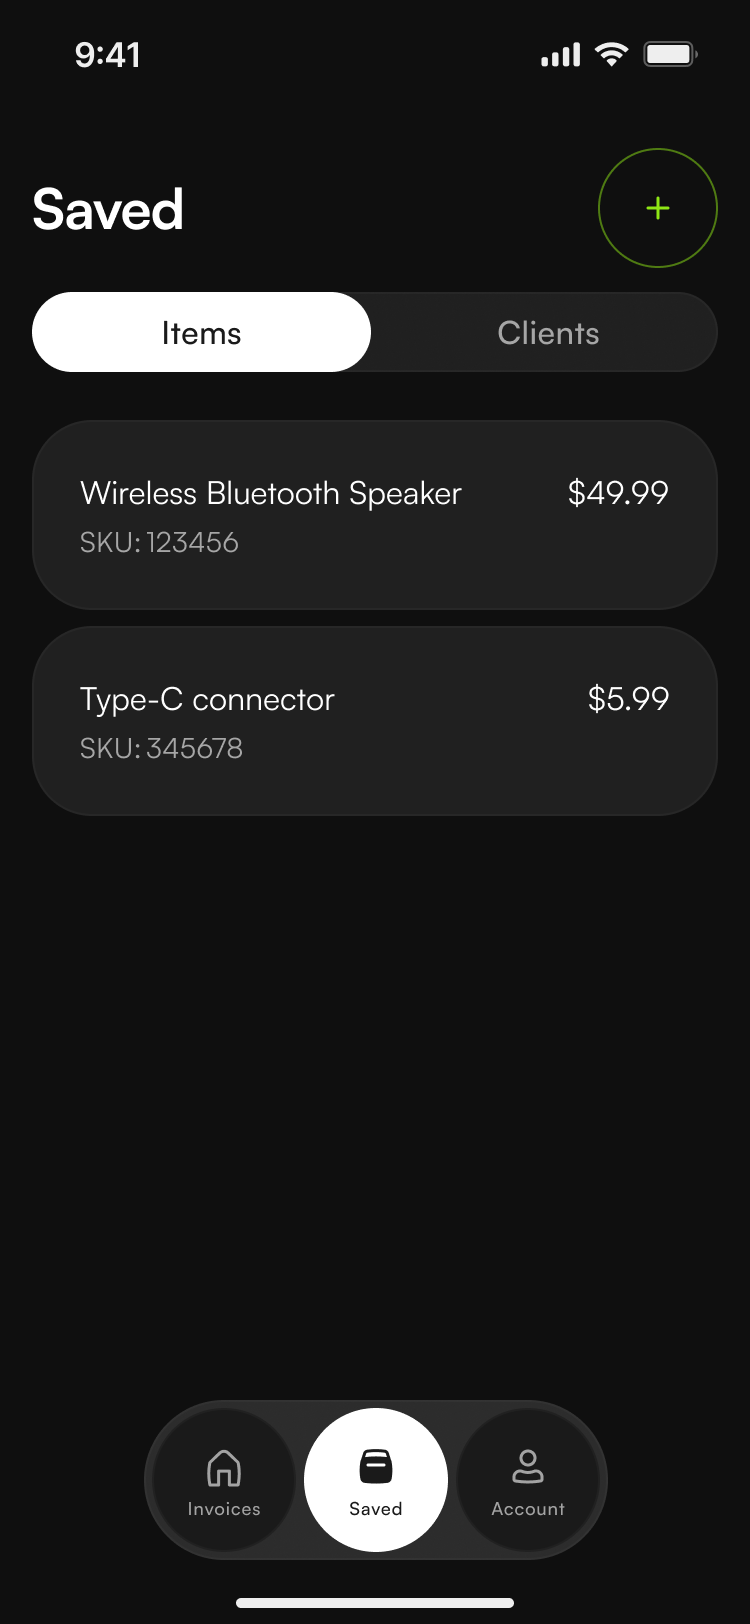
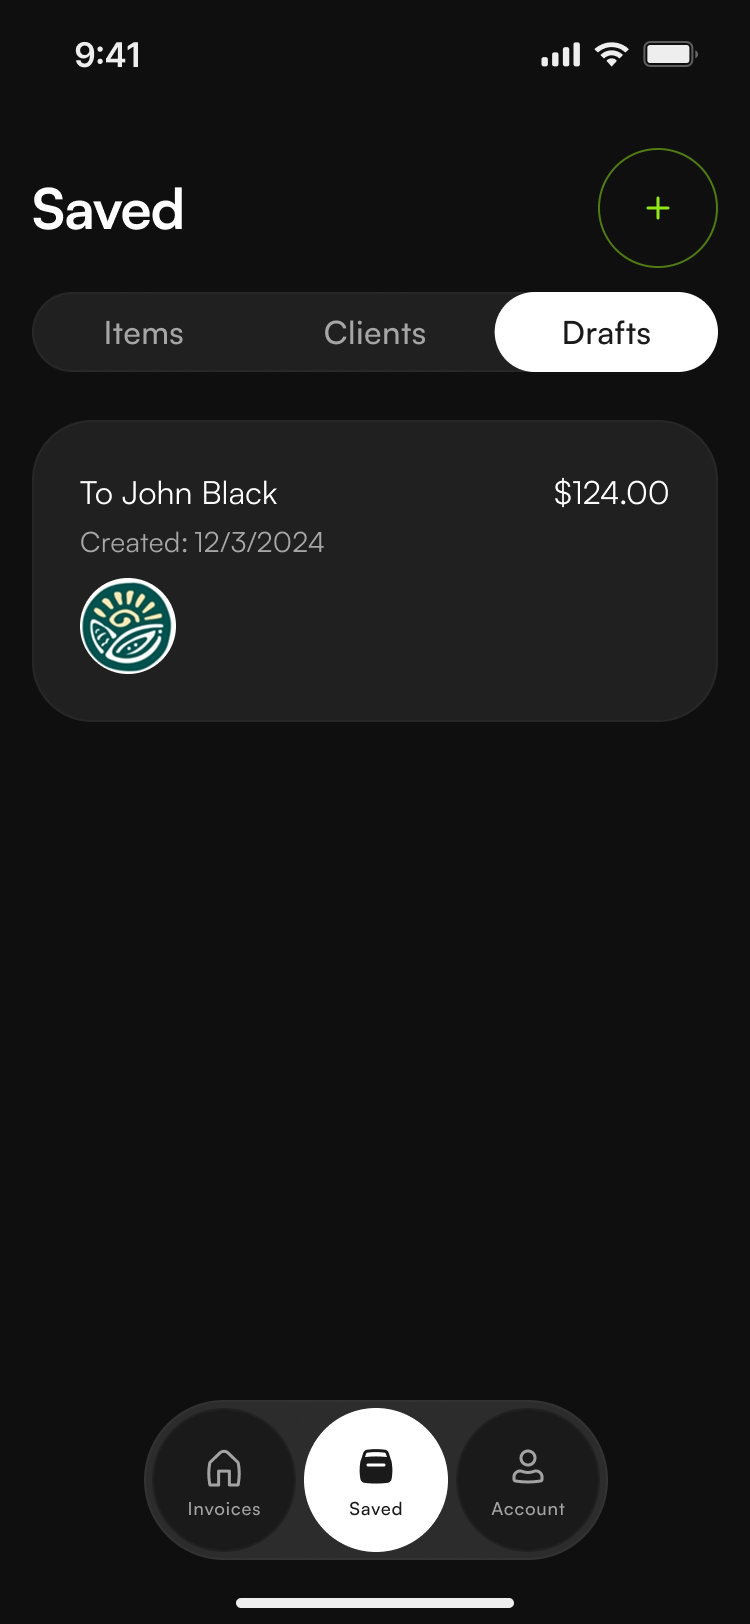
Rework the Invoicer Solution and add the IA diagram
- Solution: Kateryna's "five areas" text, and a row of four screens (invoice details, the
  document preview moved from Decision 1, account details, plan). The two-paths diagram
  (IMG 08) and the states placeholder are dropped.
- Decision 3: the IA diagram (07-ia.png) first, nine columns wide via a new .cs-figure--9,
  with the tab screens under it; the Saved screen now shows Items, Clients and Drafts.
- Plan and Saved screens re-exported with their copy fixed; no captions under screens or
  the IA diagram.
- README and DESIGN-SYSTEM.md updated.

diff --git a/invoicer.html b/invoicer.html
@@ -191,7 +191,7 @@
           <p><em>Trade-off:</em> extra screen transitions in return for one decision at a time on a small screen.</p>
         </div>
 
-        <!-- Decision 1 screens: the three steps and the Preview they lead to. Every screen row
+        <!-- Decision 1 screens: the three steps. Every screen row
              on this page is .cs-devices--quarter: each screen one quarter of the row (four per
              row), fewer screens centred, all the same size; .cs-devices turns it into the
              existing horizontal snapping strip on a phone. No captions under screens, at
@@ -206,9 +206,6 @@
             </figure>
             <figure class="cs-figure">
               <img src="assets/images/projects/invoicer/05-step-3-payment.png" width="750" height="1624" alt="Step 3 of 3: the invoice number and invoice date already filled in, the payment date, payment-method toggles, a payment instruction field and a Generate invoice button" loading="lazy" class="cs-screenshot" />
-            </figure>
-            <figure class="cs-figure">
-              <img src="assets/images/projects/invoicer/05-preview.png" width="750" height="1624" alt="Invoice preview: the generated invoice page, with Email and Share buttons below it" loading="lazy" class="cs-screenshot" />
             </figure>
           </div>
         </div>
@@ -242,27 +239,26 @@
           <p><em>Trade-off:</em> the earnings overview sits one tap away, under Account.</p>
         </div>
 
-        <!-- Decision 3 screens: one per tab, in tab-bar order (Invoices, Saved, Account), the same
-             .cs-row.cs-devices pattern as Decisions 1 and 2. -->
+        <!-- Decision 3: the information architecture first, then the three tab screens under it. -->
+        <figure class="cs-figure cs-figure--9">
+          <img src="assets/images/projects/invoicer/07-ia.png" width="1098" height="864" alt="Information architecture in three columns, one per tab. Invoices: create new invoice, add client, add items, add payment methods, generate invoice, send invoice. Saved: create new item (name, description, price, quantity) and create new client (name, contact information, address). Account: earnings chart, account details (business name, contact information, address, payment information), subscription plan, feedback, privacy policy" loading="lazy" />
+        </figure>
+
+        <!-- Decision 3 screens: one per tab, in tab-bar order (Invoices, Saved, Account), under the IA
+             diagram, the same .cs-row.cs-devices pattern as Decisions 1 and 2. -->
         <div class="cs-figure cs-wide">
           <div class="cs-row cs-devices cs-devices--quarter">
             <figure class="cs-figure">
               <img src="assets/images/projects/invoicer/07-tab-invoices.png" width="750" height="1624" alt="Invoices tab: the invoice list filtered by All, Open and Paid, grouped by Today and This month, with a create button and the tab bar" loading="lazy" class="cs-screenshot" />
             </figure>
             <figure class="cs-figure">
-              <img src="assets/images/projects/invoicer/07-tab-saved.png" width="750" height="1624" alt="Saved tab: saved items with SKU and price, a switch between Items and Clients, and a create button" loading="lazy" class="cs-screenshot" />
+              <img src="assets/images/projects/invoicer/07-tab-saved.png" width="750" height="1624" alt="Saved tab on Drafts: a segmented control for Items, Clients and Drafts, one draft invoice with client, date and amount, and a create button" loading="lazy" class="cs-screenshot" />
             </figure>
             <figure class="cs-figure">
               <img src="assets/images/projects/invoicer/07-tab-account.png" width="750" height="1624" alt="Account tab: a weekly earnings chart, the Your plan and Restore purchases rows, and the tab bar" loading="lazy" class="cs-screenshot" />
             </figure>
           </div>
         </div>
-
-        <figure class="cs-figure cs-wide">
-          <!-- PLACEHOLDER: 07-ia.png not exported yet (Behance source). -->
-          <img src="assets/images/projects/invoicer/07-ia.png" alt="Information architecture tree: App branches into three tabs, Invoices, Saved and Account" loading="lazy" />
-          <figcaption>Information architecture, always visible.</figcaption>
-        </figure>
       </div>
     </section>
 
@@ -274,34 +270,33 @@
       </div>
       <div class="grid-12 cs-body">
         <div class="cs-prose">
-          <ul class="cs-list">
-            <li>A returning client takes one selection from a searchable list. A new client takes one form with eight fields.</li>
-            <li>The same pattern repeats for items: pick from a searchable list, or create inline.</li>
-            <li>Step 3 opens with the invoice number and invoice date already filled in, so the remaining inputs are the payment date, the payment methods and an instruction.</li>
-            <li>Multi-currency with search, tax selection, a date picker, a drafts list and payment-method toggles cover the cases that competitor reviews flag as thin.</li>
-          </ul>
+          <p>Invoicer covers the invoicing routine in five areas.</p>
+          <p><strong>Invoices.</strong> The home tab lists every invoice as a card with client, date, amount and status, filtered by All, Open and Paid. A finished invoice opens inside the app with its number, date, total and status, and offers actions to mark it as paid, share or edit it. The same invoice also exists as a document preview that can be printed or saved as a PDF.</p>
+          <p><strong>Creating an invoice.</strong> Three steps. A returning client takes one selection from a searchable list. A new client takes one form with billing address and contact details, with the option to add it to Saved. The currency comes from a searchable list. Items follow the same pattern: pick from the saved list or create inline, add as many as needed, choose the tax rate and watch subtotal, tax and total update. Step 3 opens with the invoice number and date filled in, which leaves the payment date, the payment methods (bank transfer, PayPal, cash or check, other) and a payment instruction.</p>
+          <p><strong>Saved.</strong> One tab for items, clients and drafts, switched by a segmented control, with new entries created on the spot.</p>
+          <p><strong>Account.</strong> Business, personal and address details, together with payment details for bank transfer and PayPal, are entered once and reused in every invoice. Earnings appear as a chart by week, month and year.</p>
+          <p><strong>Plan.</strong> A subscription screen with monthly and yearly options and restore purchases.</p>
         </div>
 
-        <!-- Two paths (IMG 08): one image holding both paths, horizontal above 720px, vertical at
-             or below — the same <picture>/<source> swap as the onboarding pair on
-             ai-assistant-platform.html. -->
-        <div class="cs-onboarding cs-wide">
-          <div class="cs-onb-flows">
-            <figure class="cs-onb-flow">
-              <!-- PLACEHOLDER: 08-paths-horizontal.png and 08-paths-vertical.png not drawn yet. -->
-              <picture>
-                <source media="(min-width: 721px)" srcset="assets/images/projects/invoicer/08-paths-horizontal.png" />
-                <img src="assets/images/projects/invoicer/08-paths-vertical.png" alt="Two ways to add a client to an invoice side by side: picking a saved client from the list, and creating a new client inline" loading="lazy" />
-              </picture>
-              <figcaption class="cs-onb-caption">Saved-client path next to the new-client path.</figcaption>
+        <!-- Solution screens (IMG 09): the same .cs-devices--quarter row as Key decisions, in the
+             order the text names them — the invoice in the app, its document preview, Account
+             details, Plan. No captions under screens. -->
+        <div class="cs-figure cs-wide">
+          <div class="cs-row cs-devices cs-devices--quarter">
+            <figure class="cs-figure">
+              <img src="assets/images/projects/invoicer/09-invoice-details.png" width="750" height="1624" alt="Invoice details for INV001: invoice date, total amount and Open status, a Mark as paid button, Share and Edit, the client and the items" loading="lazy" class="cs-screenshot" />
+            </figure>
+            <figure class="cs-figure">
+              <img src="assets/images/projects/invoicer/09-preview.png" width="750" height="1624" alt="Invoice preview: the generated invoice page, with Email and Share buttons below it" loading="lazy" class="cs-screenshot" />
+            </figure>
+            <figure class="cs-figure">
+              <img src="assets/images/projects/invoicer/09-account-details.png" width="750" height="1624" alt="Account details: business name and logo, personal details and address, with a Save button" loading="lazy" class="cs-screenshot" />
+            </figure>
+            <figure class="cs-figure">
+              <img src="assets/images/projects/invoicer/09-plan.png" width="750" height="1624" alt="Plan screen: monthly and yearly subscription options, Confirm and continue, and Restore purchases" loading="lazy" class="cs-screenshot" />
             </figure>
           </div>
         </div>
-
-        <figure class="cs-figure">
-          <!-- PLACEHOLDER: 09-states.png not exported yet (Figma frames 1:1620, 1:1493, 1:1857, 1:1980). -->
-          <img src="assets/images/projects/invoicer/09-states.png" alt="Four iPhone screens: currency search, the drafts list, the date picker and the invoice preview" loading="lazy" />
-        </figure>
       </div>
     </section>
 

diff --git a/src/invoicer.html b/src/invoicer.html
@@ -176,7 +176,7 @@
           <p><em>Trade-off:</em> extra screen transitions in return for one decision at a time on a small screen.</p>
         </div>
 
-        <!-- Decision 1 screens: the three steps and the Preview they lead to. Every screen row
+        <!-- Decision 1 screens: the three steps. Every screen row
              on this page is .cs-devices--quarter: each screen one quarter of the row (four per
              row), fewer screens centred, all the same size; .cs-devices turns it into the
              existing horizontal snapping strip on a phone. No captions under screens, at
@@ -191,9 +191,6 @@
             </figure>
             <figure class="cs-figure">
               <img src="assets/images/projects/invoicer/05-step-3-payment.png" width="750" height="1624" alt="Step 3 of 3: the invoice number and invoice date already filled in, the payment date, payment-method toggles, a payment instruction field and a Generate invoice button" loading="lazy" class="cs-screenshot" />
-            </figure>
-            <figure class="cs-figure">
-              <img src="assets/images/projects/invoicer/05-preview.png" width="750" height="1624" alt="Invoice preview: the generated invoice page, with Email and Share buttons below it" loading="lazy" class="cs-screenshot" />
             </figure>
           </div>
         </div>
@@ -227,27 +224,26 @@
           <p><em>Trade-off:</em> the earnings overview sits one tap away, under Account.</p>
         </div>
 
-        <!-- Decision 3 screens: one per tab, in tab-bar order (Invoices, Saved, Account), the same
-             .cs-row.cs-devices pattern as Decisions 1 and 2. -->
+        <!-- Decision 3: the information architecture first, then the three tab screens under it. -->
+        <figure class="cs-figure cs-figure--9">
+          <img src="assets/images/projects/invoicer/07-ia.png" width="1098" height="864" alt="Information architecture in three columns, one per tab. Invoices: create new invoice, add client, add items, add payment methods, generate invoice, send invoice. Saved: create new item (name, description, price, quantity) and create new client (name, contact information, address). Account: earnings chart, account details (business name, contact information, address, payment information), subscription plan, feedback, privacy policy" loading="lazy" />
+        </figure>
+
+        <!-- Decision 3 screens: one per tab, in tab-bar order (Invoices, Saved, Account), under the IA
+             diagram, the same .cs-row.cs-devices pattern as Decisions 1 and 2. -->
         <div class="cs-figure cs-wide">
           <div class="cs-row cs-devices cs-devices--quarter">
             <figure class="cs-figure">
               <img src="assets/images/projects/invoicer/07-tab-invoices.png" width="750" height="1624" alt="Invoices tab: the invoice list filtered by All, Open and Paid, grouped by Today and This month, with a create button and the tab bar" loading="lazy" class="cs-screenshot" />
             </figure>
             <figure class="cs-figure">
-              <img src="assets/images/projects/invoicer/07-tab-saved.png" width="750" height="1624" alt="Saved tab: saved items with SKU and price, a switch between Items and Clients, and a create button" loading="lazy" class="cs-screenshot" />
+              <img src="assets/images/projects/invoicer/07-tab-saved.png" width="750" height="1624" alt="Saved tab on Drafts: a segmented control for Items, Clients and Drafts, one draft invoice with client, date and amount, and a create button" loading="lazy" class="cs-screenshot" />
             </figure>
             <figure class="cs-figure">
               <img src="assets/images/projects/invoicer/07-tab-account.png" width="750" height="1624" alt="Account tab: a weekly earnings chart, the Your plan and Restore purchases rows, and the tab bar" loading="lazy" class="cs-screenshot" />
             </figure>
           </div>
         </div>
-
-        <figure class="cs-figure cs-wide">
-          <!-- PLACEHOLDER: 07-ia.png not exported yet (Behance source). -->
-          <img src="assets/images/projects/invoicer/07-ia.png" alt="Information architecture tree: App branches into three tabs, Invoices, Saved and Account" loading="lazy" />
-          <figcaption>Information architecture, always visible.</figcaption>
-        </figure>
       </div>
     </section>
 
@@ -259,34 +255,33 @@
       </div>
       <div class="grid-12 cs-body">
         <div class="cs-prose">
-          <ul class="cs-list">
-            <li>A returning client takes one selection from a searchable list. A new client takes one form with eight fields.</li>
-            <li>The same pattern repeats for items: pick from a searchable list, or create inline.</li>
-            <li>Step 3 opens with the invoice number and invoice date already filled in, so the remaining inputs are the payment date, the payment methods and an instruction.</li>
-            <li>Multi-currency with search, tax selection, a date picker, a drafts list and payment-method toggles cover the cases that competitor reviews flag as thin.</li>
-          </ul>
+          <p>Invoicer covers the invoicing routine in five areas.</p>
+          <p><strong>Invoices.</strong> The home tab lists every invoice as a card with client, date, amount and status, filtered by All, Open and Paid. A finished invoice opens inside the app with its number, date, total and status, and offers actions to mark it as paid, share or edit it. The same invoice also exists as a document preview that can be printed or saved as a PDF.</p>
+          <p><strong>Creating an invoice.</strong> Three steps. A returning client takes one selection from a searchable list. A new client takes one form with billing address and contact details, with the option to add it to Saved. The currency comes from a searchable list. Items follow the same pattern: pick from the saved list or create inline, add as many as needed, choose the tax rate and watch subtotal, tax and total update. Step 3 opens with the invoice number and date filled in, which leaves the payment date, the payment methods (bank transfer, PayPal, cash or check, other) and a payment instruction.</p>
+          <p><strong>Saved.</strong> One tab for items, clients and drafts, switched by a segmented control, with new entries created on the spot.</p>
+          <p><strong>Account.</strong> Business, personal and address details, together with payment details for bank transfer and PayPal, are entered once and reused in every invoice. Earnings appear as a chart by week, month and year.</p>
+          <p><strong>Plan.</strong> A subscription screen with monthly and yearly options and restore purchases.</p>
         </div>
 
-        <!-- Two paths (IMG 08): one image holding both paths, horizontal above 720px, vertical at
-             or below — the same <picture>/<source> swap as the onboarding pair on
-             ai-assistant-platform.html. -->
-        <div class="cs-onboarding cs-wide">
-          <div class="cs-onb-flows">
-            <figure class="cs-onb-flow">
-              <!-- PLACEHOLDER: 08-paths-horizontal.png and 08-paths-vertical.png not drawn yet. -->
-              <picture>
-                <source media="(min-width: 721px)" srcset="assets/images/projects/invoicer/08-paths-horizontal.png" />
-                <img src="assets/images/projects/invoicer/08-paths-vertical.png" alt="Two ways to add a client to an invoice side by side: picking a saved client from the list, and creating a new client inline" loading="lazy" />
-              </picture>
-              <figcaption class="cs-onb-caption">Saved-client path next to the new-client path.</figcaption>
+        <!-- Solution screens (IMG 09): the same .cs-devices--quarter row as Key decisions, in the
+             order the text names them — the invoice in the app, its document preview, Account
+             details, Plan. No captions under screens. -->
+        <div class="cs-figure cs-wide">
+          <div class="cs-row cs-devices cs-devices--quarter">
+            <figure class="cs-figure">
+              <img src="assets/images/projects/invoicer/09-invoice-details.png" width="750" height="1624" alt="Invoice details for INV001: invoice date, total amount and Open status, a Mark as paid button, Share and Edit, the client and the items" loading="lazy" class="cs-screenshot" />
+            </figure>
+            <figure class="cs-figure">
+              <img src="assets/images/projects/invoicer/09-preview.png" width="750" height="1624" alt="Invoice preview: the generated invoice page, with Email and Share buttons below it" loading="lazy" class="cs-screenshot" />
+            </figure>
+            <figure class="cs-figure">
+              <img src="assets/images/projects/invoicer/09-account-details.png" width="750" height="1624" alt="Account details: business name and logo, personal details and address, with a Save button" loading="lazy" class="cs-screenshot" />
+            </figure>
+            <figure class="cs-figure">
+              <img src="assets/images/projects/invoicer/09-plan.png" width="750" height="1624" alt="Plan screen: monthly and yearly subscription options, Confirm and continue, and Restore purchases" loading="lazy" class="cs-screenshot" />
             </figure>
           </div>
         </div>
-
-        <figure class="cs-figure">
-          <!-- PLACEHOLDER: 09-states.png not exported yet (Figma frames 1:1620, 1:1493, 1:1857, 1:1980). -->
-          <img src="assets/images/projects/invoicer/09-states.png" alt="Four iPhone screens: currency search, the drafts list, the date picker and the invoice preview" loading="lazy" />
-        </figure>
       </div>
     </section>
 

diff --git a/css/case-study.css b/css/case-study.css
@@ -234,6 +234,13 @@
   grid-column: 1 / -1;
 }
 
+/* Nine columns (4–12): between the default figure (5–12) and .cs-wide, ending on the same
+   right edge as the text column. Used for the Invoicer IA diagram. Height follows the image's
+   own ratio (.cs-figure > img). On a phone the grid is one column, so this has no effect. */
+.cs-body > .cs-figure--9 {
+  grid-column: 4 / 13;
+}
+
 .cs-media {
   display: flex;
   align-items: center;

diff --git a/DESIGN-SYSTEM.md b/DESIGN-SYSTEM.md
@@ -479,25 +479,28 @@ existing components — no new CSS — with these differences from the reference
   *Trade-off* lines) followed by its screens, all in one `.cs-body`. Each decision's screens are
   real app screenshots (750 × 1624, an iPhone at 2×) in a `.cs-row.cs-devices.cs-devices--quarter`
   inside a `div.cs-figure.cs-wide`, **with no captions under screens**, at Kateryna's request:
-  - Decision 1: `05-step-1-client.png`, `05-step-2-items.png`, `05-step-3-payment.png`,
-    `05-preview.png` (the Preview sits here at Kateryna's request, though the brief's image
-    table lists it under IMG 09).
+  - Decision 1: `05-step-1-client.png`, `05-step-2-items.png`, `05-step-3-payment.png`.
   - Decision 2: `06-new-client-empty.png`, `06-new-client-filled.png`, `06-clients.png`.
   - Decision 3: `07-tab-invoices.png`, `07-tab-saved.png`, `07-tab-account.png` (tab-bar
-    order), above the IA diagram placeholder.
+    order), under the IA diagram (`07-ia.png`, 1098 × 864, a `.cs-figure.cs-figure--9`, no
+    caption), which comes first.
 - **`.cs-devices--quarter`** (new, `css/case-study.css`): on desktop every screen is one quarter
   of the row — 256px on the 1120px grid, the size four screens get side by side — so rows of
   three match rows of four instead of stretching to 352px, and a shorter row is centred
   (`justify-content: center`; measured at 1400px: 144px either side of a row of three). On a
   phone `.cs-devices`' own horizontal strip applies unchanged (256px screens). A modifier, not a
   change to `.cs-devices`, because the placeholder case studies' rows hold five framed screens.
+- **`.cs-figure--9`** (new): a figure nine columns wide (4–12, `832px` on the 64px grid), between
+  the default figure (5–12) and `.cs-wide`, ending on the text column's right edge; height
+  follows the image's own ratio. Used for the IA diagram. No effect on a phone (one column).
 - **`.cs-screenshot`** (new): an iPhone screenshot's display corners, `border-radius: 10.4% /
   4.8%` — 39pt on a 375 × 812pt screen as a share of width and height, so the corner stays
   circular and in proportion at any rendered size.
-- IMG 09's caption was removed too, since it is a row of screens.
-- **Two paths (IMG 08):** one `.cs-onb-flow` inside `.cs-onboarding` (both paths in one image,
-  `08-paths-horizontal.png` / `-vertical.png`, the same `<picture>` swap as Process on the
-  reference page), with no `.cs-onb-title`.
+- **Solution:** prose is Kateryna's "five areas" text (an intro line, then one paragraph per
+  area with a bold lead-in), followed by a row of four
+  screens in the same `.cs-devices--quarter` row, no captions (the two-paths diagram, IMG 08,
+  was dropped at Kateryna's request): `09-invoice-details.png`,
+  `09-preview.png` (moved here from Decision 1), `09-account-details.png`, `09-plan.png`.
 - **Design system & handoff:** the UI kit sheet (`10-ui-kit.png`) is `.cs-figure--bleed`, placed
   **last** in the section, after the spec page (`11-spec.png`), though the brief lists it first:
   a grid placed after a bleed figure sits flush against its caption, while a bleed figure that

diff --git a/README.md b/README.md
@@ -133,8 +133,8 @@ GitHub Pages, served from the `main` branch root: Settings → Pages → Source:
 - [ ] Fill in `case-study-2.html` … `4.html` (placeholders that repeat the template)
 - [ ] Export the one image the AI Assistant Platform page is still waiting for, optional:
       `evolution-whitelabel-1.png` / `2.png`, into `assets/images/projects/ai-assistant-platform/`
-- [ ] Export the remaining Invoicer images (`03-empathy-map.png` … `11-spec.png`, plus
-      `08-paths-horizontal.png` / `-vertical.png`) into `assets/images/projects/invoicer/`; the
+- [ ] Export the remaining Invoicer images (`03-empathy-map.png`, `04-scope.png`,
+      `10-ui-kit.png`, `11-spec.png`) into `assets/images/projects/invoicer/`; the
       page already points at every filename (list and Figma frames in its `PLACEHOLDER` comments).
       The hero, `01-hero.webp`, is in place
 - [ ] Add `assets/cv.pdf` (the "download cv" link points at it and the file does not exist yet)
